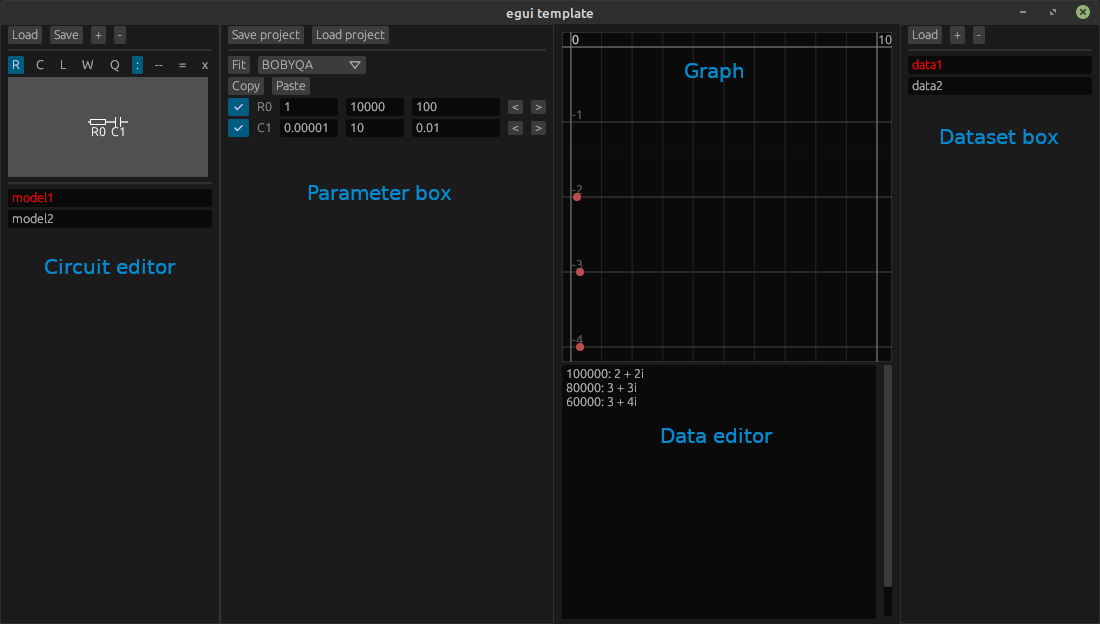
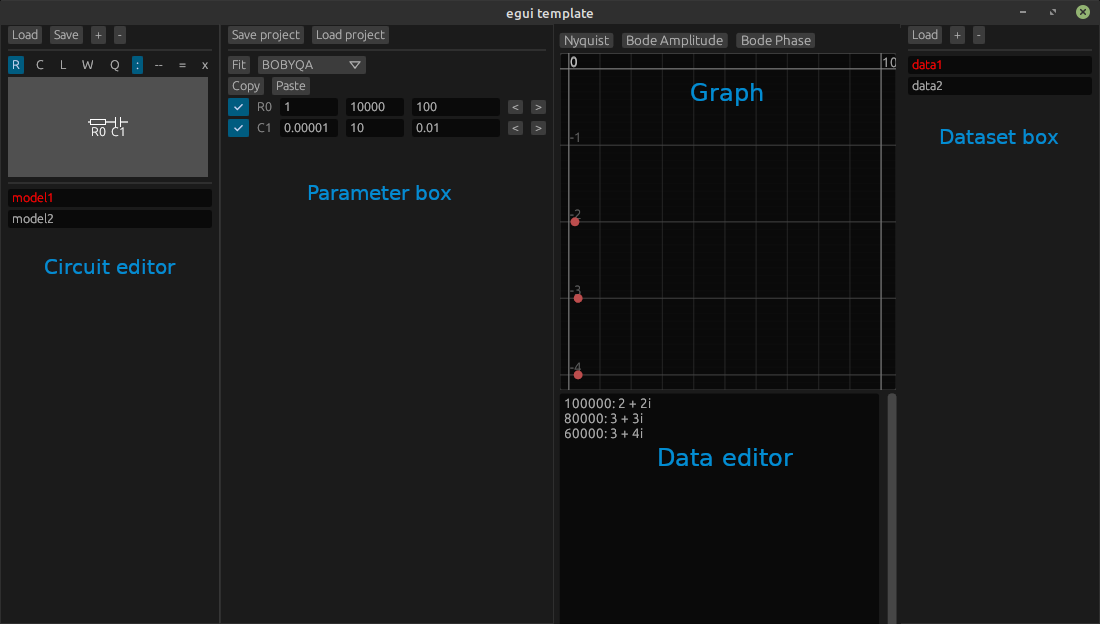
Plot types

diff --git a/src/main.rs b/src/main.rs
@@ -1,4 +1,5 @@
 #![warn(clippy::nursery)]
+#![warn(clippy::pedantic)]
 
 use std::{fmt::Display, str::FromStr};
 
@@ -65,6 +66,8 @@ impl Display for ImpOpenParam {
     }
 }
 
+pub enum PlotType {Nyquist, BodePhase, BodeAmp}
+
 pub struct TemplateApp {
     pub fit_method: FitMethod,
     pub component: ElectricComponent,
@@ -83,6 +86,8 @@ pub struct TemplateApp {
     pub opening_mode: (FreqOpenParam, ImpOpenParam, usize, usize, usize, usize),
 
     pub copied_paramlist: Option<(usize, usize)>,
+
+    pub plot_type: PlotType,
 }
 
 type AppData = (Vec<Model>, Vec<(Vec<DataPiece>, String)>, Vec< Vec< ParameterDesc >>);
@@ -305,7 +310,8 @@ impl Default for TemplateApp {
             editor: String::with_capacity(64),
             opening_data: vec![],
             opening_mode: (FreqOpenParam::Hz, ImpOpenParam::PlusOhm, 0, 1, 2, 0),
-            copied_paramlist: None
+            copied_paramlist: None,
+            plot_type: PlotType::Nyquist,
         };
         out.editor = dataset_to_string(&out.datasets[out.current_dataset].0);
         out
@@ -333,6 +339,7 @@ impl epi::App for TemplateApp {
             opening_data,
             opening_mode,
             copied_paramlist,
+            plot_type,
         ..} = self;
 
         if !opening_data.is_empty() {
@@ -779,21 +786,57 @@ impl epi::App for TemplateApp {
                     None => return,
                 }.0;
 
+                ui.horizontal(|ui|
+                    if ui.small_button("Nyquist").clicked() {
+                        *plot_type = PlotType::Nyquist
+                    }
+                    else if ui.small_button("Bode Amplitude").clicked() {
+                        *plot_type = PlotType::BodeAmp
+                    }
+                    else if ui.small_button("Bode Phase").clicked() {
+                        *plot_type = PlotType::BodePhase
+                    }
+                );
+
                 let plt = egui::plot::Plot::new("plot1")
                     .points(egui::plot::Points::new(
-                        egui::plot::Values::from_values( dataset.iter().map(|d| egui::plot::Value::new(d.imp.re, -d.imp.im)).collect::<Vec<_>>() )
+                        egui::plot::Values::from_values( dataset.iter().map(|d| 
+                                match plot_type {
+                                    PlotType::Nyquist => egui::plot::Value::new(d.imp.re, -d.imp.im),
+                                    PlotType::BodePhase => egui::plot::Value::new(d.freq, -d.imp.arg()*180.0/3.1415926),
+                                    PlotType::BodeAmp => egui::plot::Value::new(d.freq, d.imp.norm()),
+                                }
+                            ).collect::<Vec<_>>() )
                         )
                         .shape(egui::plot::MarkerShape::Circle)
                         .radius(4.)
                     );
-                
+
+                let dlen = dataset.len();
+
+                let rmin;
+                let rmax;
+                if dlen > 1 {
+                    rmin = dataset[0].freq;
+                    rmax = dataset[dlen-1].freq;
+                } else if dlen == 1 {
+                    rmin = dataset[0].freq/2.0;
+                    rmax = dataset[0].freq*2.0;
+                } else {
+                    rmin = 1.0;
+                    rmax = 1000.0;
+                }
+
                 let plt = if let Some(m) = models.get(*current_circ) {
                     let values = 
-                    dataset.iter().map(|d| {
-                        let imp = m.circuit.impedance(std::f64::consts::TAU*d.freq, &params[*current_circ][*current_dataset].vals);
-                        egui::plot::Value::new(
-                            imp.re, -imp.im
-                        )
+                    (0..1000).map(|i| {
+                        let f = rmin + ((rmax - rmin)/1000.0 * i as f64);
+                        let imp = m.circuit.impedance(std::f64::consts::TAU*f, &params[*current_circ][*current_dataset].vals);
+                        match plot_type {
+                            PlotType::Nyquist => egui::plot::Value::new(imp.re, -imp.im),
+                            PlotType::BodePhase => egui::plot::Value::new(f, -imp.arg()*180.0/3.1415926),
+                            PlotType::BodeAmp => egui::plot::Value::new(f, imp.norm()),
+                        }
                     }).collect();
                     plt.line(egui::plot::Line::new(egui::plot::Values::from_values(values)).stroke((1.0, Color32::WHITE)))
                 } else {plt};

diff --git a/src/circuit.rs b/src/circuit.rs
@@ -344,12 +344,12 @@ impl Circuit {
                     let elemend = (psize as f32).mul_add(blocksize, elemstart);
                     index = c.paint(pos2(elemstart, y), blocksize, painter, index);
 
-                    painter.line_segment([pos2(pos.x + blocksize/2., y+blocksize/2.), pos2(elemstart, y+blocksize/2.)], Stroke{color: Color32::RED, ..stroke});
-                    painter.line_segment([pos2(elemend, y+blocksize/2.), pos2((xsize as f32).mul_add(blocksize, pos.x) - blocksize/2., y+blocksize/2.)], Stroke{color: Color32::BLUE, ..stroke});
+                    painter.line_segment([pos2(pos.x + blocksize/2., y+blocksize/2.), pos2(elemstart, y+blocksize/2.)], Stroke{color: Color32::WHITE, ..stroke});
+                    painter.line_segment([pos2(elemend, y+blocksize/2.), pos2((xsize as f32).mul_add(blocksize, pos.x) - blocksize/2., y+blocksize/2.)], Stroke{color: Color32::WHITE, ..stroke});
 
-                    painter.line_segment([pos+vec2(blocksize/2., blocksize/2.), pos2(pos.x + blocksize/2., y+blocksize/2.)], Stroke{color: Color32::YELLOW, ..stroke});
+                    painter.line_segment([pos+vec2(blocksize/2., blocksize/2.), pos2(pos.x + blocksize/2., y+blocksize/2.)], Stroke{color: Color32::WHITE, ..stroke});
 
-                    painter.line_segment([pos2(drawend - blocksize/2., pos.y+blocksize/2.), pos2(drawend - blocksize/2., y+blocksize/2.)], Stroke{color: Color32::RED, ..stroke});
+                    painter.line_segment([pos2(drawend - blocksize/2., pos.y+blocksize/2.), pos2(drawend - blocksize/2., y+blocksize/2.)], Stroke{color: Color32::WHITE, ..stroke});
                     
                     y += c.painted_size().1 as f32 * blocksize;
                 }

diff --git a/doc/manual/Usage.md b/doc/manual/Usage.md
@@ -25,6 +25,14 @@ Click a textbox in dataset editor to select a circuit. It also highlights with r
 
 The circuits and datasets may be renamed in-place.
 
+## Plot graph
+
+Drag or scroll to navigate.
+
+Ctrl-scroll to zoom.
+
+Double click to reset limits.
+
 ## Circuit editor
 
 Click "+" button to add a new circuit.
